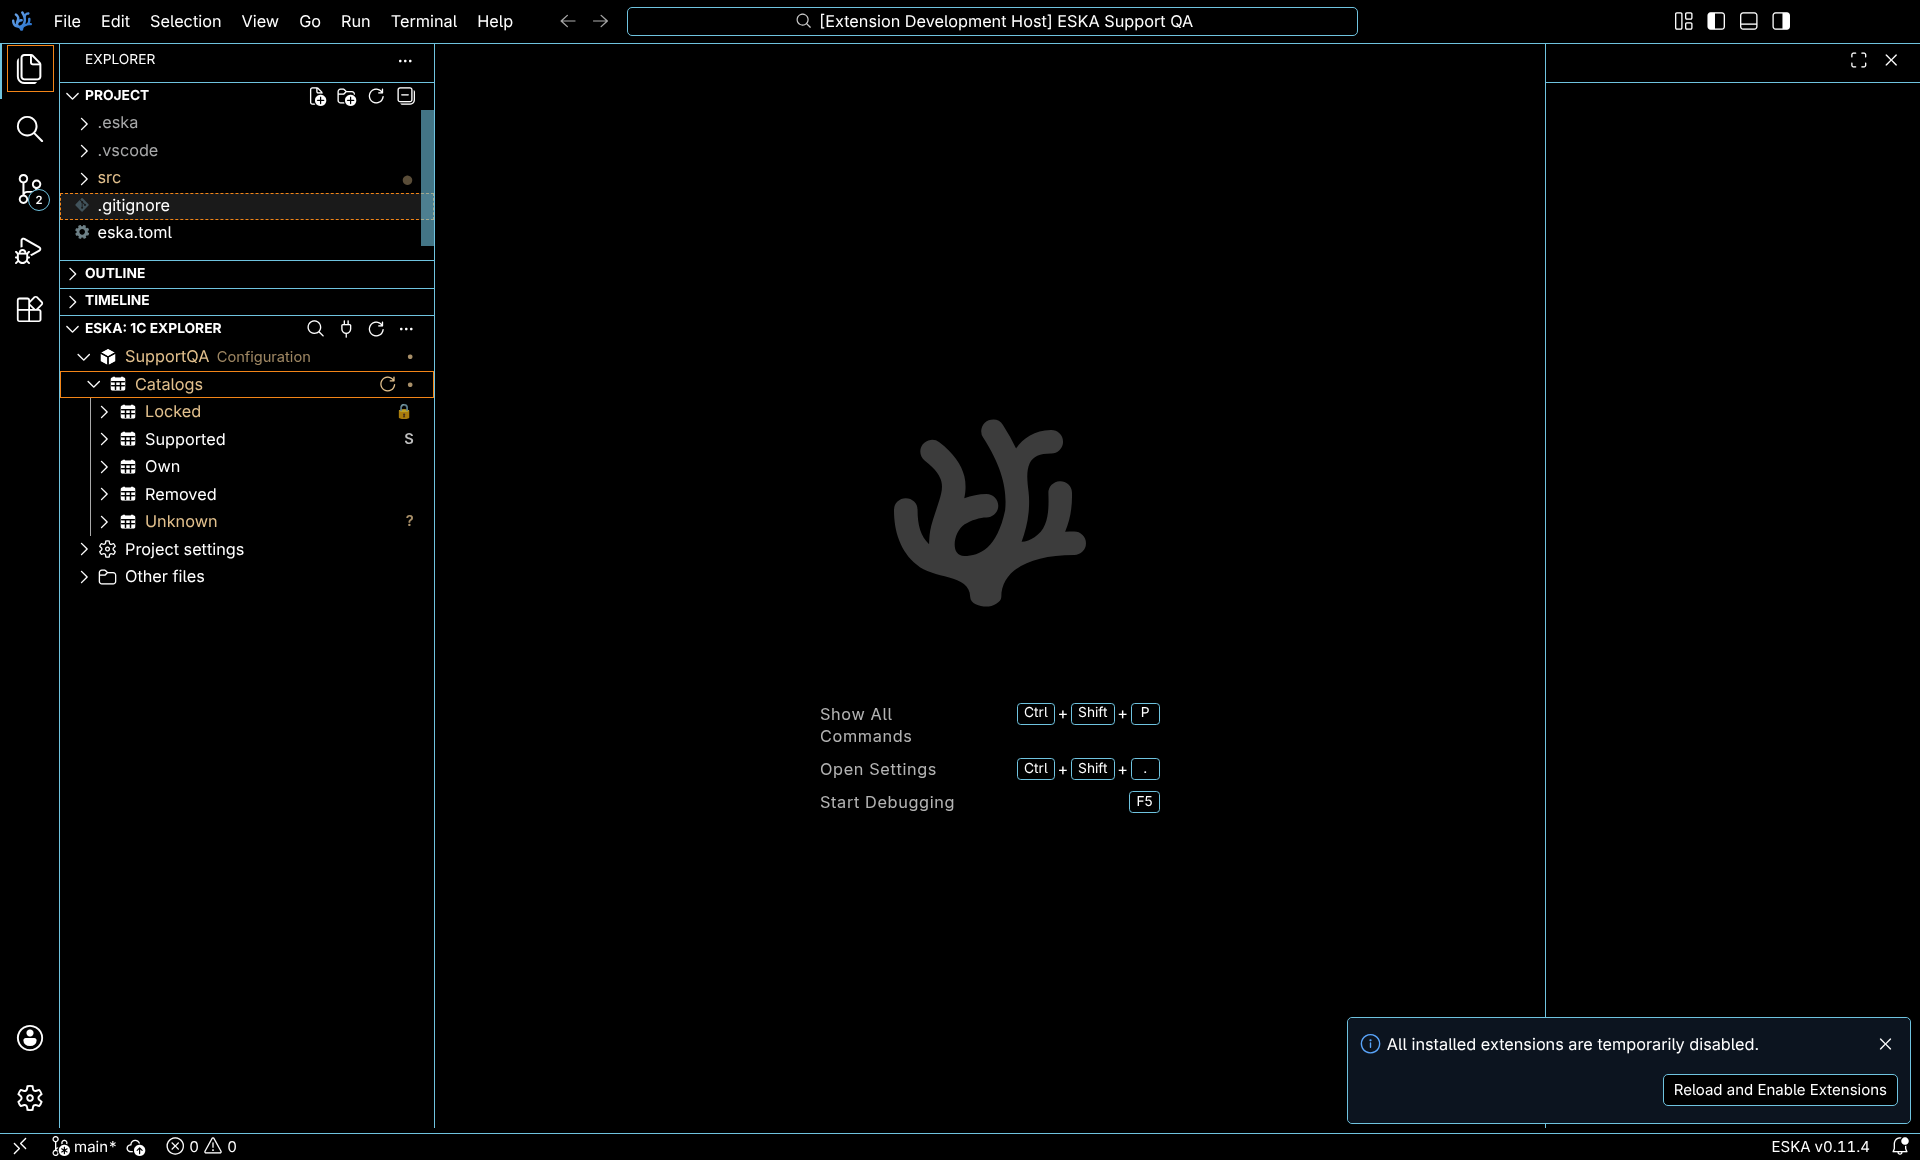
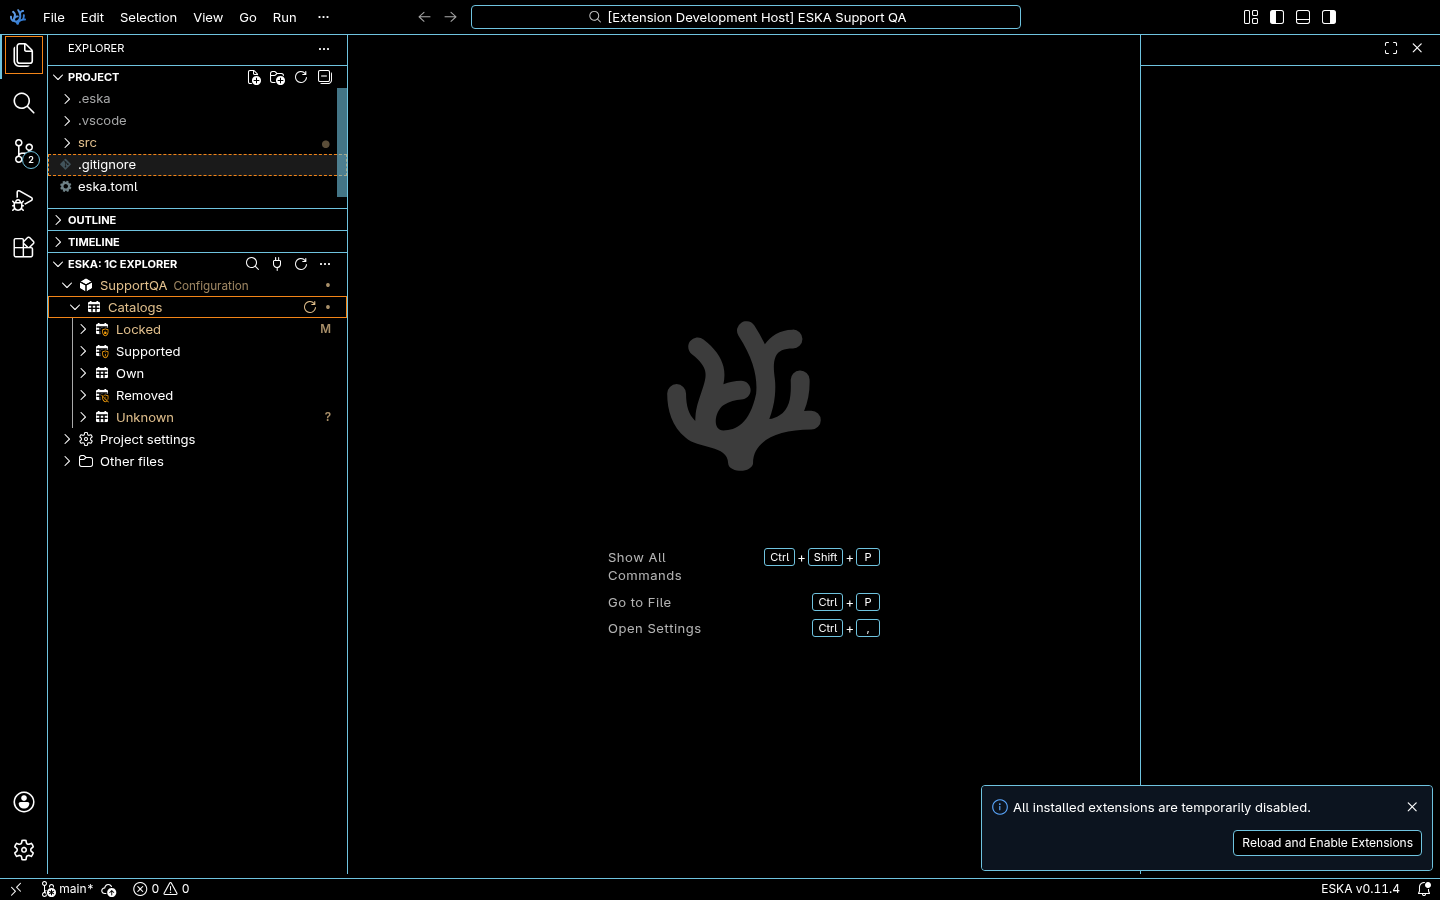
feat(explorer): Добавлены оранжевые маркеры поддержки к иконкам объектов

diff --git a/src/extension.ts b/src/extension.ts
@@ -72,7 +72,7 @@ class Explorer implements vscode.TreeDataProvider<Element>, vscode.Disposable {
   constructor(private readonly context: vscode.ExtensionContext) {
     this.support = new SupportController(context, () => this.supportRepaint(), text => this.output.warn(text));
     this.supportContexts = new SupportContexts(String(context.extension.packageJSON.version), (trees, pending) => this.support.setAdditionalTrees(trees, pending), () => this.support.invalidate(), text => this.output.info(text));
-    this.decorations.support = entry => this.support.decoration(entry);
+    this.decorations.support = entry => this.support.object(entry)?.state === "unknown" ? this.support.decoration(entry) : undefined;
     this.status.name = "ESKA Explorer";
     this.status.command = "eska.explorer.checkUpdates";
     this.disposables.push(this.status, this.decorations);
@@ -283,7 +283,9 @@ class Explorer implements vscode.TreeDataProvider<Element>, vscode.Disposable {
     const theme = kind === vscode.ColorThemeKind.HighContrast ? "contrast"
       : kind === vscode.ColorThemeKind.HighContrastLight ? "contrast-light"
       : kind === vscode.ColorThemeKind.Light ? "light" : "dark";
-    const key = `${theme}/${sourceIcon ?? iconName(entry.node, entry.project.info.type, this.tree?.parent(entry)?.node)}.svg`;
+    const name = sourceIcon ?? iconName(entry.node, entry.project.info.type, this.tree?.parent(entry)?.node);
+    const support = this.support.icon(entry);
+    const key = support ? `support/generated/${theme}/${name}-${support}.svg` : `${theme}/${name}.svg`;
     let uri = this.iconPaths.get(key);
     if (!uri) {
       uri = vscode.Uri.joinPath(this.context.extensionUri, "resources", "icons", key);

diff --git a/src/support.ts b/src/support.ts
@@ -130,6 +130,15 @@ export class SupportController implements vscode.FileDecorationProvider {
     return details.join('\n');
   }
 
+  /** Select bundled Material artwork from confirmed policy, never infer removal from unrestricted alone. */
+  icon(entry: TreeEntry): 'shield_lock' | 'privacy_tip' | 'encrypted_off' | undefined {
+    const policy = this.object(entry);
+    if (policy?.state === 'locked') return 'shield_lock';
+    if (policy?.state === 'editableWithSupport') return 'privacy_tip';
+    if (policy?.state === 'unrestricted' && policy.reason === 'supportRemoved') return 'encrypted_off';
+    return undefined;
+  }
+
   /** A single short badge is supported by the public API in all native tree themes. */
   decoration(entry: TreeEntry): vscode.FileDecoration | undefined {
     const policy = this.object(entry);

diff --git a/scripts/check-vsix.py b/scripts/check-vsix.py
@@ -21,7 +21,7 @@ def check(archive):
         assert identity.attrib['Version'] == manifest['version']
         shipped = json.loads(package.read('extension/package.json'))
         assert all(shipped.get(key) == value for key, value in manifest.items()), 'Packaged manifest differs'
-        required = ['package.json', 'package.nls.json', 'package.nls.ru.json', 'README.md', 'CHANGELOG.md', 'LICENSE']
+        required = ['package.json', 'package.nls.json', 'package.nls.ru.json', 'README.md', 'CHANGELOG.md', 'LICENSE', 'resources/icons/support/LICENSE', 'resources/icons/support/NOTICE.md']
         if manifest.get('icon'):
             required.append(manifest['icon'])
         required += [path.relative_to(root).as_posix() for pattern in ['out/*.js', 'resources/icons/**/*.svg', 'docs/*.md', 'docs/measurements/*.json'] for path in root.glob(pattern)]

diff --git a/resources/icons/support/NOTICE.md b/resources/icons/support/NOTICE.md
@@ -1,0 +1,4 @@
+Material Symbols Outlined: shield_lock, privacy_tip, encrypted_off.
+Copyright Google LLC. Licensed under Apache License 2.0 (see LICENSE).
+Source: https://github.com/google/material-design-icons/tree/master/symbols/web
+Modified: orange fill; composed with ESKA metadata artwork during compilation.
